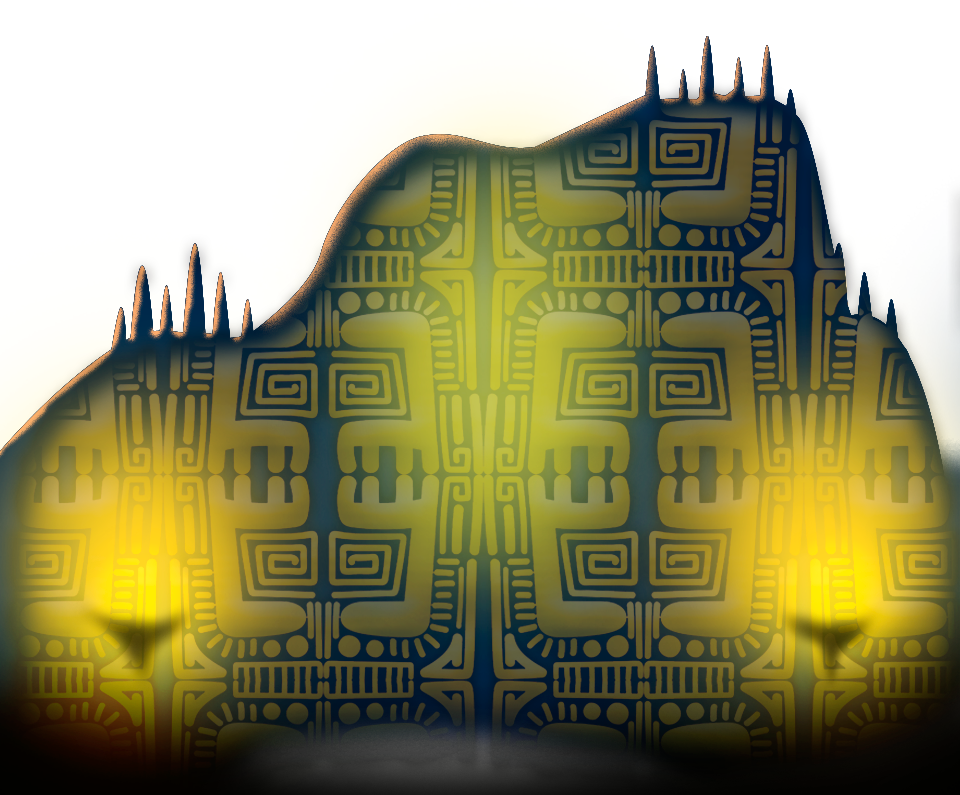
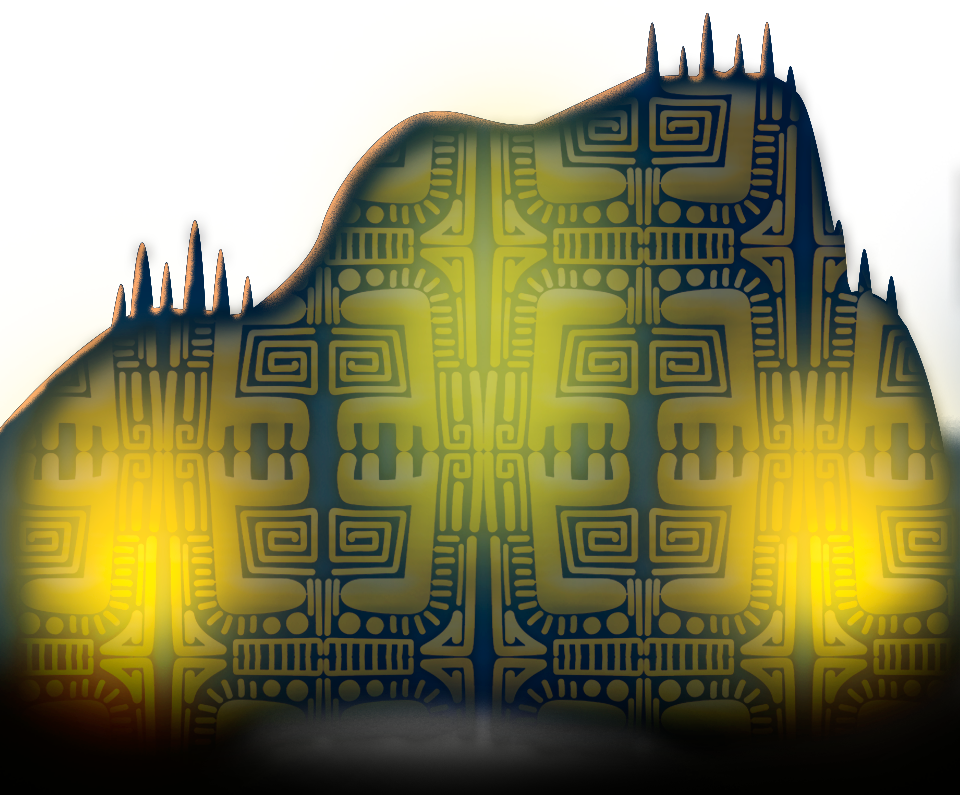
fire width change, responsive lack

diff --git a/css/main.css b/css/main.css
@@ -39,7 +39,7 @@ body {
 /* MENU NAVBAR */
 
 .link-1{
-    font-family: 'CFSpaceship';
+    font-family: 'mosk-semi-bold-600';
     font-size: 16.67px;
     text-decoration: none;
     background: url('../img/btn1.png') no-repeat top left;
@@ -58,7 +58,7 @@ body {
 }
 
 .nav-item a {
-    font-family: 'mosk-semi-bold-600';
+    font-family: 'CFSpaceship';
     font-size: 12.5px;
     color: #fff;
     -webkit-transition: all 0.5s;
@@ -83,7 +83,19 @@ body {
 
 
 .btn-link-1{
-    background-image: url("../img/estrella.png");
+    background-image: url("../img/start1.png");
+    background-repeat: no-repeat;    
+    background-position: right top;     
+}
+
+.btn-link-2{
+    background-image: url("../img/start3.png");
+    background-repeat: no-repeat;    
+    background-position: right top;     
+}
+
+.btn-link-3{
+    background-image: url("../img/start2.png");
     background-repeat: no-repeat;    
     background-position: right top;     
 }
@@ -138,7 +150,12 @@ body {
     transform-origin: 50% 50%;
 } 
 
-@media only screen and (max-device-width: 1024px) {    
+
+#cuadro{
+    margin-bottom: 12%;
+}
+
+@media only screen and (max-device-width : 768px) { 
     .rotar1, .rotar2,.rotar3{
         transform-origin: none;
         transform: none; 
@@ -155,8 +172,8 @@ body {
         width: 40px !important;
         height: 66.667px !important;
         background-image: url('../img/fire2.png') !important;
-        animation: playX 1s steps(4) infinite,
-        playY 3s steps(3) infinite;
+        animation: playX 0.9999s steps(4) infinite,
+        playY 2.9999s steps(3) infinite;
     }
     @keyframes playX {
         from {background-position-x: 0px !important;}
@@ -173,6 +190,51 @@ body {
     }
     #izq{
         left: 7% !important;
+    }
+    #cuadro{
+        margin-bottom: 14%;
+    }
+}
+
+@media only screen and (min-device-width : 768px) and (max-device-width: 1024px) {    
+    .rotar1, .rotar2,.rotar3{
+        transform-origin: none;
+        transform: none; 
+    }
+    .parallax1{
+        height: 545px !important;
+        
+    }
+    .parallax2{
+        height: 1090px !important;
+        background-position-x: center !important;
+    }
+    .fire {    
+        width: 100px !important;
+        height: 133.3333px !important;
+        background-image: url('../img/fire3.png') !important;
+        animation: playX 1.9999s steps(4) infinite,
+                   playY 3.9999s steps(3) infinite !important;
+      }
+      
+      @keyframes playX {
+        from {background-position-x: 0px !important; }
+        to {background-position-x: -400px !important;}
+      }
+      
+      @keyframes playY {
+        from {background-position-y: 0px !important;}
+        to {background-position-y: -400px !important;}
+      }
+
+    #der {
+        right: 12% !important;
+    }
+    #izq{
+        left: 11% !important;
+    }
+    #cuadro{
+        margin-bottom: 14%;
     }
 }
 

diff --git a/index.html b/index.html
@@ -27,13 +27,13 @@
 					<li class="nav-item h-100 active mr-4 btn-link-1">
 						<a class="nav-link rotar1 pr-3 pt-3" href="#">NOSOTROS</a>
 					</li>
-					<li class="nav-item h-100 ml-2 mr-4 btn-link-1">
+					<li class="nav-item h-100 ml-2 mr-4 btn-link-2">
 						<a class="nav-link rotar2 pr-3" href="#">SERVICIOS</a>
 					</li>
-					<li class="nav-item h-100 ml-2 mr-4 btn-link-1">
+					<li class="nav-item h-100 ml-2 mr-4 btn-link-3">
 						<a class="nav-link rotar3 pt-3 pr-3" href="#">EXPERIENCIA</a>
 					</li>
-					<li class="nav-item h-100 ml-2 mr-4 btn-link-1">
+					<li class="nav-item h-100 ml-2 mr-4 btn-link-2">
 						<a class="nav-link rotar1 mr-3" href="#">CONTACTO</a>
 					</li>
 				</ul>
@@ -56,13 +56,11 @@
 		  <div class="col-md-12">
 			<div class="parallax2">
 				<img src="img/2_rock_up.png" alt="" style="position: absolute;top: 0;" class="img-fluid">
-				<img src="img/4_hill.png" alt="" style="position: absolute;bottom: 0;" class="img-fluid">
-				
-                <img src="img/5_light.png" alt="" style="position:absolute;bottom: 35%; left: 60px;" class="img-fluid"/>
-                
+				<img src="img/4_hill.png" alt="" style="position: absolute;bottom: 0;" class="img-fluid">				
+                <img src="img/5_light.png" alt="" style="position:absolute;bottom: 35%; left: 60px;" class="img-fluid"/>                
 				<img src="img/6_logo.png" alt="" style="position: absolute;bottom:0;margin-left:auto;margin-right: auto;" class="img-fluid">
-				<div class="w-100" style="position: absolute;bottom:0;margin-bottom: 16%;z-index: 9;">		
-					<div class="fire" id="izq" style="left: 6%;float: left;position: relative;"></div>
+				<div class="w-100" style="position: absolute;bottom:0;z-index: 9;" id="cuadro">		
+					<div class="fire" id="izq" style="left: 7%;float: left;position: relative;"></div>
 					<div class="fire" id="der" style="right: 7%;float: right;position: relative;"></div>
 				</div>
 			</div>

diff --git a/js/jquery.parallax.js b/js/jquery.parallax.js
@@ -1,7 +1,7 @@
 var $ = jQuery.noConflict();
 $(window).scroll(function(){
-  var scroll = $(this).scrollTop();
-  $('.parallax1').css({'background-position':'0px '+scroll/7+'px'});
-  var scroll1 = $(this).scrollTop();
-  $('.parallax2').css({'background-position':'0px -'+scroll1/18+'px'});
+	var scroll = $(this).scrollTop();
+	$('.parallax1').css({'background-position':'0px '+scroll/7+'px'});
+	var scroll1 = $(this).scrollTop();
+	$('.parallax2').css({'background-position':'0px -'+scroll1/18+'px'});
 });
